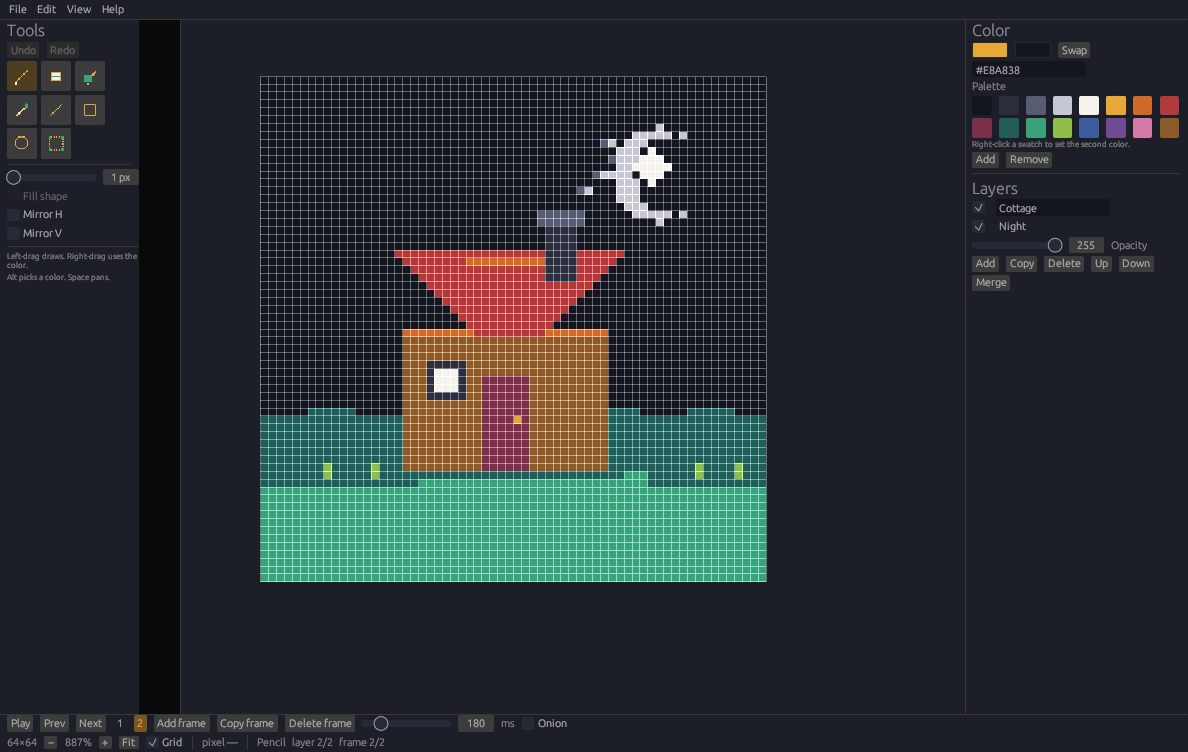
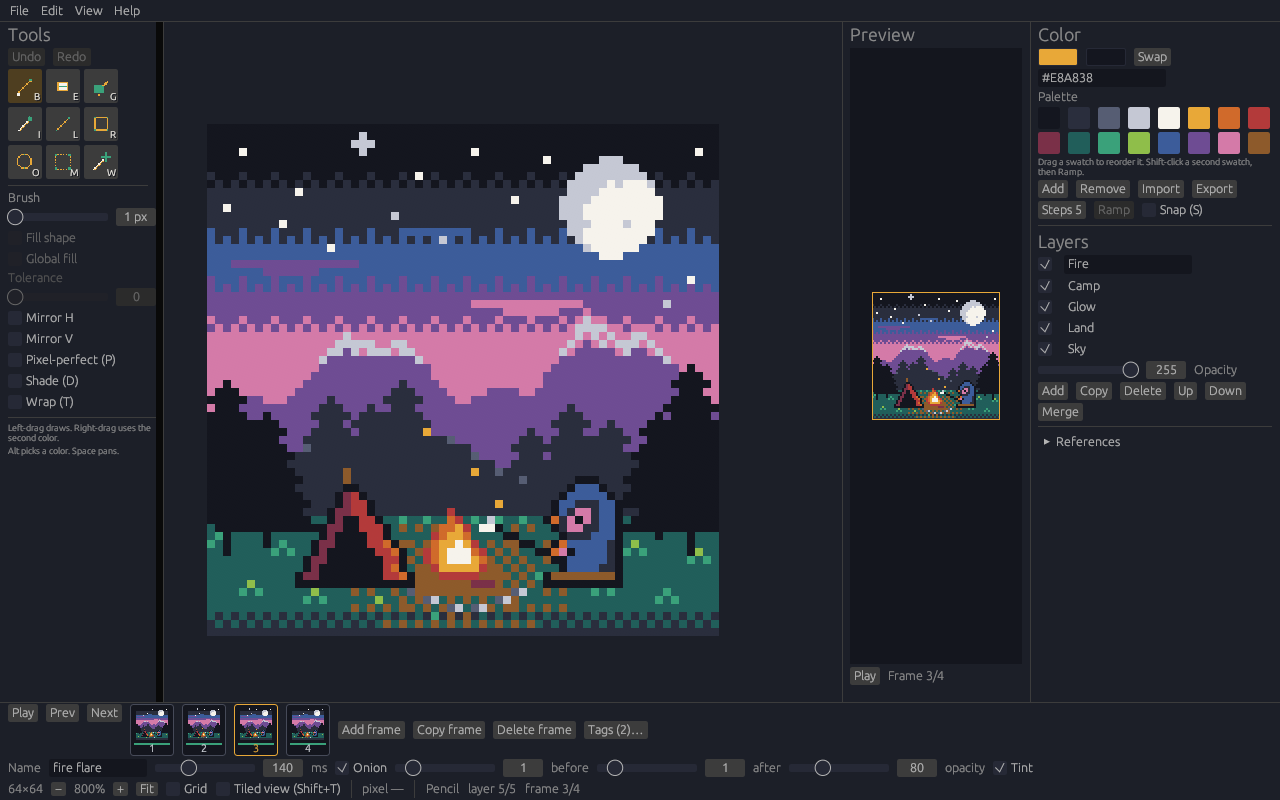
Rework the README for 0.9.0
The intro names OxyPack and Aseprite import. Features are grouped under
Drawing, Selections, Color and palette, Layers, Animation, Import and
export, and Files and recovery, and list frame names and tags. Update
behavior moves out of the install sections into its own Updates section
with automatic updates. The OxyPack section is split into what it
reads, an options table, and where to find it, with a screenshot of the
Pack sprites window. The download table lists the per-platform checksum
files.

New screenshots from the 0.9.0 build show an original 64x64 campfire
scene made for them: five layers, four named frames, two tags, onion
skin, and the packed atlas.

Claude-Session: https://claude.ai/code/session_01RTYDvnyorjSTgSCpyUgWmX

diff --git a/README.md b/README.md
@@ -1,14 +1,16 @@
 # OxyPixel
 
-OxyPixel is a pixel-art editor for making sprites and short animations on Windows and Linux. You draw on a pixel canvas, stack layers, and step through frames, then save an `.oxypix` document or export PNG, BMP, or GIF. The editing rules live in the `oxypixel-core` library, and the window is an [egui](https://github.com/emilk/egui) app. OxyPixel is an original program. It is not affiliated with Pixelorama, Orama Interactive, Godot, or Aseprite.
+OxyPixel is a pixel-art editor for making sprites and short animations on Windows and Linux. Draw on a pixel canvas, stack layers, step through named frames and animation tags, then save an `.oxypix` document or export PNG, BMP, GIF, or a spritesheet with JSON for game engines. It comes with [OxyPack](#oxypack), a sprite atlas packer that also reads Aseprite files, as a command and as a window inside the editor.
+
+The editing rules live in the `oxypixel-core` library, and the window is an [egui](https://github.com/emilk/egui) app. OxyPixel is an original program. It is not affiliated with Pixelorama, Orama Interactive, Godot, or Aseprite.
 
 **[Releases](https://github.com/crisprintsstuff/oxypixel/releases)** · **[Changelog](CHANGELOG.md)** · **[Latest](https://github.com/crisprintsstuff/oxypixel/releases/latest)** · **[Roadmap](docs/ROADMAP.md)**
 
-![The OxyPixel window editing a 64 by 64 drawing. Tools are on the left, the Ink palette and the Night and Cottage layers are on the right, and the frame strip is along the bottom.](docs/images/editor.png)
+![The OxyPixel window editing a 64 by 64 campfire scene at dusk: a hooded traveler roasts a marshmallow beside a tent under a full moon and pink mountains. Tools are on the left; the preview panel, the Ink palette, and five layers (Fire, Camp, Glow, Land, Sky) are on the right; four frame thumbnails, the frame Name field reading "fire low", and the Tags (2) button are along the bottom.](docs/images/editor.png)
 
-![The same drawing on frame 2, with onion skin showing the previous frame faintly. The cottage window is light and the smoke has moved.](docs/images/editor-frames.png)
+![The same drawing on frame 3, named "fire flare", with onion skin on. The flames are taller, sparks have risen, and a star twinkles.](docs/images/editor-frames.png)
 
-The pictures above are screenshots of the running editor. The drawing is a sample file opened for the capture. The images are in [docs/images/](docs/images/) and are covered by the repository MIT license.
+The pictures above are screenshots of OxyPixel 0.9.0. The drawing is a sample file opened for the capture. The images are in [docs/images/](docs/images/) and are covered by the repository MIT license.
 
 ## Contents
 
@@ -18,6 +20,7 @@ The pictures above are screenshots of the running editor. The drawing is a sampl
 - [Portable Windows build](#portable-windows-build)
 - [Linux](#linux)
 - [Features](#features)
+- [Updates](#updates)
 - [How it's built](#how-its-built)
 - [Keyboard shortcuts](#keyboard-shortcuts)
 - [OxyPack](#oxypack)
@@ -30,7 +33,7 @@ The pictures above are screenshots of the running editor. The drawing is a sampl
 
 ## Status
 
-OxyPixel is an early release. The Windows downloads are unsigned. Linux publishes a tar.gz and a `.deb`. A canvas side is at most 1024 pixels. What works today, and the open task list, is in [docs/ROADMAP.md](docs/ROADMAP.md).
+OxyPixel 0.9.0 is an early release. The Windows downloads are unsigned. Linux publishes a tar.gz and a `.deb`. A canvas side is at most 1024 pixels. What works today, and the open task list, is in [docs/ROADMAP.md](docs/ROADMAP.md).
 
 ## Download
 
@@ -43,7 +46,8 @@ The files for the current release are on the [latest release](https://github.com
 | `oxypixel-<version>-linux-x86_64.tar.gz` | Linux x86_64 archive |
 | `oxypixel-<version>-linux-x86_64.deb` | Linux Debian package |
 | `oxypack-<version>-windows-x86_64.exe` | [OxyPack](#oxypack) sprite packer for Windows. The Linux archive and `.deb` include `oxypack` |
-| [`SHA256SUMS.txt`](https://github.com/crisprintsstuff/oxypixel/releases/latest/download/SHA256SUMS.txt) | Checksums |
+| [`SHA256SUMS.txt`](https://github.com/crisprintsstuff/oxypixel/releases/latest/download/SHA256SUMS.txt) | Checksums for the editor downloads, used by Check for updates |
+| `SHA256SUMS-windows.txt`, `SHA256SUMS-linux.txt` | Checksums for each platform's files, including `oxypack-<version>-windows-x86_64.exe` |
 
 The Windows files are unsigned. SmartScreen can warn that the publisher is unknown. Check `SHA256SUMS.txt` before you install. Signing steps are in [docs/BUILD-WINDOWS.md](docs/BUILD-WINDOWS.md).
 
@@ -64,8 +68,6 @@ The window draws with Direct3D 12 through wgpu, which every supported Windows ha
 `oxypixel-<version>-windows-x86_64.exe` is the same 64-bit program without an installer. Put it in any folder and run it. SmartScreen can show the same unknown-publisher warning as the installer.
 
 The tagged Windows build embeds the application icon and a version resource when `rc.exe` is on `PATH`. The release workflow adds that compiler from the Windows SDK. A cross-build made without `rc.exe`, `llvm-rc`, or `windres` on `PATH` does not embed those resources, and File Explorer then shows a generic icon for the exe. The installer shortcut and the `.oxypix` association use `oxypixel.ico` either way. See [docs/BUILD-WINDOWS.md](docs/BUILD-WINDOWS.md).
-
-Help, then Check for updates, can download a newer release and restart into it after the checksum matches. Turn on Automatic updates (in the Help menu or that window) to check once a day at launch: a newer release is downloaded and verified in the background, and an "Update … ready" button appears in the menu bar. Nothing is installed until you click it.
 
 ## Linux
 
@@ -96,39 +98,76 @@ oxypixel export-png drawing.oxypix frame.png
 
 RPM, AppImage, and Flatpak are not built. Notes are in [docs/LINUX-PACKAGING.md](docs/LINUX-PACKAGING.md).
 
-Help, then Check for updates, downloads the tar.gz for an unpacked copy and the `.deb` when the running program is `/usr/bin/oxypixel`. A packaged copy stays in place. Install the downloaded `.deb` with the package manager.
-
 ## Features
 
 These match the current editor. Planned work is listed in [docs/ROADMAP.md](docs/ROADMAP.md) and is not included here.
 
-- Pixel canvas with nearest-neighbor zoom on whole-pixel steps, pan, and an optional grid
-- Pencil, eraser, fill, eyedropper, line, rectangle, ellipse, rectangular selection, and a magic wand. Fill and the wand have a tolerance for near colors and a global mode that take every match on the layer
-- Shift adds a marquee or wand area to the selection and Alt cuts it out, so a selection can be any shape
-- Move, nudge, flip, and rotate a selection (or the active cel when nothing is selected). A 90° turn swaps the sides and stays centered; pixels that do not fit are dropped. Copy publishes a straight-alpha image to the system clipboard and keeps an in-memory patch. Paste uses the system image, or that patch when the clipboard has no image
-- Canvas resize and crop
+### Drawing
+
+- Pencil, eraser, fill, eyedropper, line, rectangle, ellipse, rectangular selection, and a magic wand
+- Fill and the wand have a tolerance for near colors and a global mode that takes every match on the layer
+- Pixel-perfect pencil (P), off until you turn it on, drops the extra corner of a one-pixel diagonal step
+- Shade (D) turns the pencil into a shading brush: left steps each pixel to the next palette swatch, right to the one before
 - Horizontal and vertical mirror while drawing
-- Pixel-perfect pencil (P), off until you turn it on, drops the extra corner of a one-pixel diagonal step. The line tool is unchanged
-- Shade (D) turns the pencil into a shading brush: left steps each pixel to the next palette swatch, right to the one before. Colors not in the palette stay
-- Wrap (T) continues a stroke or fill that leaves an edge on the opposite edge. Tiled view (Shift+T) shows the canvas 3 by 3. Export still writes one copy
-- Primary and secondary colors, hex entry, and the Ink palette
-- Import and export the palette as GIMP `.gpl`, hex `.hex` (one `RRGGBB` per line), or JASC `.pal`. Import replaces the palette and can be undone. Drag swatches to reorder them, and fill a ramp of N steps between two swatches. Snap (S) makes pencil, fill, and shapes use the nearest palette color
-- Layers with visibility, opacity, rename, reorder, duplicate, and merge down
+- Wrap (T) continues a stroke or fill that leaves one edge on the opposite edge. Tiled view (Shift+T) shows the canvas 3 by 3 for checking a repeating tile
+- Nearest-neighbor zoom in whole-pixel steps, pan, and an optional grid
 - Undo and redo, including the selection
-- Frame names, typed beside the frame duration and used as the frame's name in the spritesheet JSON and by OxyPack
-- Animation tags: name a range of frames, choose forward, reverse, or ping-pong and a repeat count, and see each tag marked on the frame strip. Tags are saved in the document and exported in the spritesheet JSON and by OxyPack
-- Animation frames with thumbnails, playback, onion skin for earlier and later frames, a duration up to 10 seconds, GIF export, and a spritesheet in a row or a grid, with padding and a JSON description for game engines
+
+### Selections
+
+- Shift adds a marquee or wand area to the selection and Alt cuts it out, so a selection can be any shape
+- Move, nudge, flip, and rotate a selection, or the active cel when nothing is selected. A 90° turn swaps the sides and stays centered
+- Copy puts a straight-alpha image on the system clipboard. Paste uses the system image, or the last copy when the clipboard has no image
+- Canvas resize and crop
+
+### Color and palette
+
+- Primary and secondary colors, hex entry, and the 16-color Ink palette
+- Drag swatches to reorder them, and fill a ramp of N steps between two swatches
+- Snap (S) makes pencil, fill, and shapes use the nearest palette color
+- Import and export the palette as GIMP `.gpl`, hex `.hex`, or JASC `.pal`. Import replaces the palette and can be undone
+
+### Layers
+
+- Visibility, opacity, rename, reorder, duplicate, and merge down
+- Reference images (PNG or JPEG) on the canvas or in a floating panel, behind the art by default. Ctrl+drag moves one, and Fit to canvas scales it to the document. They are left out of export and saved beside the document, not inside it
+
+### Animation
+
+- Frames with thumbnails, playback, and a duration up to 10 seconds each
+- Frame names, typed in the Name field beside the duration. The spritesheet JSON and OxyPack use them
+- Animation tags: name a range of frames, choose forward, reverse, or ping-pong and a repeat count, and see each tag marked on the frame strip. Tags are saved in the document and exported in the spritesheet JSON
+- Onion skin for earlier and later frames, with a tint
 - A preview panel of the whole image, with its own playback, that pans the canvas when you click it
-- PNG and spritesheet export at 1×, 2×, or 4× nearest-neighbor
+
+### Import and export
+
 - `.oxypix` documents, plus PNG, BMP, and GIF import and export
-- Reference images (PNG or JPEG) on the canvas or in a floating panel, behind the art by default, so tools draw over them. Ctrl+drag moves one, and Fit to canvas scales it to the document. They are left out of export unless you copy one onto a layer. Dropping a JPEG loads a reference; a dropped PNG still imports. Save writes the paths and placement beside the document, not inside the `.oxypix` file. An image in the document's folder is stored by a relative path, so the folder can move
-- Recent files (a folder hint when names match, a missing-file mark, and Clear recent), drag-and-drop, a Windows file dialog, and a Linux portal dialog with a path field if the portal is unavailable
-- Autosave writes a recovery copy about once a minute, and after a run of edits, into the app data folder. It does not overwrite the open file. The next launch can restore or discard that copy, including a drawing that was never saved. Turn it off from the File menu
-- Pack sprites (File menu): pack frames from image, `.oxypix`, and `.aseprite` files into an atlas PNG and JSON, with a preview
-- Headless `export-png`, `export-bmp`, `export-gif`, `export-sheet`, `export-palette`, and `import-palette` commands
-- Keyboard shortcuts
+- PNG and spritesheet export at 1×, 2×, or 4× nearest-neighbor. A spritesheet can be a row or a grid, with padding and a JSON description for game engines
+- GIF animation export
+- Pack sprites (File menu): pack frames from image, `.oxypix`, and `.aseprite` files into an atlas PNG and JSON. See [OxyPack](#oxypack)
+- Headless `export-png`, `export-bmp`, `export-gif`, `export-sheet`, `export-palette`, and `import-palette` commands that never open a window
+
+### Files and recovery
+
+- Recent files, with a folder hint when names match, a missing-file mark, and Clear recent
+- Drag-and-drop, a Windows file dialog, and a Linux portal dialog with a path field if the portal is unavailable
+- Autosave writes a recovery copy about once a minute into the app data folder, without touching the open file. The next launch can restore or discard it, including a drawing that was never saved. Turn it off from the File menu
 
 A canvas side is at most 1024 pixels. One cel holds at most 1,048,576 pixels. The whole document holds at most 16,777,216 pixels across frames and layers. Details are in [docs/FORMAT.md](docs/FORMAT.md).
+
+## Updates
+
+Help, then Check for updates, looks at the public releases on GitHub. If a newer one has a file for your system, OxyPixel downloads it and checks it against `SHA256SUMS.txt` before it is used:
+
+- **Windows installer copy:** opens the new installer.
+- **Portable Windows copy:** replaces itself and restarts.
+- **Unpacked Linux copy:** replaces `oxypixel` from the new tar.gz and restarts.
+- **`.deb` copy** (`/usr/bin/oxypixel`): downloads the new `.deb` and leaves it for you to install with your package manager.
+
+You have to save or discard the open drawing first.
+
+**Automatic updates** is off by default. Turn it on in the Help menu or in the Check for updates window. OxyPixel then checks once a day at launch without opening a window, downloads and verifies a newer release in the background, and shows an "Update … ready" button in the menu bar. Nothing is installed until you click it.
 
 ## How it's built
 
@@ -160,13 +199,44 @@ The full list is [docs/SHORTCUTS.md](docs/SHORTCUTS.md).
 
 ## OxyPack
 
-`oxypack` is a companion command-line tool in the same workspace, and the editor has the same packer under File, then Pack sprites…. It packs sprites from many files into one atlas PNG and writes a JSON hash beside it, the layout Phaser, PixiJS, Godot importers, and Aseprite's own exporter read. Every frame of a GIF or `.oxypix` file becomes a sprite named `<file> 0`, `<file> 1`, and so on, with its duration; a one-frame file is named after the file.
+OxyPack packs sprites from many files into one atlas PNG and writes a JSON hash beside it, the layout Phaser, PixiJS, Godot importers, and Aseprite's own exporter read. It is a command-line tool, `oxypack`, and the same packer is in the editor under File, then Pack sprites….
 
 ```bash
 oxypack sprites/ hero.oxypix --trim --dedupe -o atlas.png
 ```
 
-Inputs are `.png`, `.bmp`, `.gif`, `.oxypix`, and Aseprite `.aseprite` / `.ase` files, or folders of them. An Aseprite file is drawn the way Aseprite flattens it for export: visible layers with their opacity, hidden and reference layers left out. Layer blend modes (Multiply, Screen, Overlay, and the rest of Aseprite's list) and group opacity and blending are applied. Tilemap layers are drawn from their tilesets, flipped tiles included. A tileset kept in another file is skipped, and `oxypack` says so on stderr. Tags from Aseprite files and from tagged `.oxypix` documents are written to `meta.frameTags` with their direction and repeat count, numbered by the sprites' order in the JSON, so a tag still points at the right frames when several files share one atlas. `--padding N` (default 1) leaves clear pixels between sprites, `--max-width N` (default 2048) caps the width, `--trim` crops each sprite to its ink and records the offset, `--dedupe` stores repeated frames once, `--pot` rounds the size up to powers of two, `--packer maxrects` fills the gaps rows leave for a shorter atlas, and `--no-json` writes only the PNG. The command never opens a window, so it fits build scripts and CI. The Pack sprites window takes files and folders (from the system dialog or a typed path), shows the packed atlas, and saves the same PNG and JSON the command would. On Windows the installer puts `oxypack.exe` in `%LOCALAPPDATA%\OxyPixel`, and there is also a standalone `oxypack-<version>-windows-x86_64.exe` download; the Linux archive has `./oxypack` beside `./oxypixel`, and the `.deb` installs `/usr/bin/oxypack`. From source: `cargo build --release -p oxypack`.
+![The Pack sprites window over the editor. campfire.oxypix is the input, and the result reads "4 sprites from 1 files, 259×64, 2 tags", with the four packed frames shown in a row.](docs/images/pack.png)
+
+### What it reads
+
+- `.png`, `.bmp`, `.gif`, `.oxypix`, and Aseprite `.aseprite` / `.ase` files, or folders of them (not searched recursively)
+- Every frame of an animation becomes a sprite with its duration. It is named `<file> <frame name>` when the frame has a name, and `<file> 0`, `<file> 1`, and so on otherwise. A one-frame file is named after the file
+- Aseprite files are drawn the way Aseprite flattens them for export:
+  - visible layers with their opacity; hidden and reference layers are left out
+  - layer blend modes (Multiply, Screen, Overlay, and the rest of Aseprite's list), and group opacity and blending
+  - tilemap layers drawn from their tilesets, flipped tiles included. A tileset kept in another file is skipped, with a note on stderr
+- Tags from Aseprite files and from tagged `.oxypix` documents are written to `meta.frameTags` with their direction and repeat count. They are numbered by the sprites' order in the JSON, so a tag still points at the right frames when several files share one atlas
+
+### Options
+
+| Option | Effect |
+| --- | --- |
+| `-o`, `--output <path>` | Atlas PNG to write (required). The JSON goes beside it |
+| `--padding N` | Clear pixels between sprites (default 1) |
+| `--max-width N` | Widest the atlas may be (default 2048) |
+| `--trim` | Crop each sprite to its ink and record the offset |
+| `--dedupe` | Store repeated frames once |
+| `--pot` | Round the atlas size up to powers of two |
+| `--packer maxrects` | Fill the gaps rows leave, for a shorter atlas (default `shelf`) |
+| `--no-json` | Write only the PNG |
+
+The command never opens a window, so it fits build scripts and CI. The Pack sprites window takes files and folders (from the system dialog or a typed path), shows the packed atlas, and saves the same PNG and JSON the command would.
+
+### Where to find it
+
+- **Windows:** the installer puts `oxypack.exe` in `%LOCALAPPDATA%\OxyPixel`, and there is also a standalone `oxypack-<version>-windows-x86_64.exe` download.
+- **Linux:** the archive has `./oxypack` beside `./oxypixel`, and the `.deb` installs `/usr/bin/oxypack`.
+- **From source:** `cargo build --release -p oxypack`.
 
 Outside tests: a tester ran the `oxypack` command from the 0.7.5 Linux build. With 0.8.0, `.aseprite` files saved by Aseprite 1.13.18.6 packed to the same frames as Aseprite's own export. Reports on other files and versions are welcome in an issue.
 

diff --git a/docs/images/README.md b/docs/images/README.md
@@ -1,5 +1,5 @@
 # Screenshots
 
-`editor.png` and `editor-frames.png` are screenshots of the OxyPixel window, captured from a build of this repository on 2026-10-21. The 64×64 drawing in the window was made for the capture. It is original project art: a two-layer, two-frame scene, not a mockup and not artwork from another editor.
+`editor.png`, `editor-frames.png`, and `pack.png` are screenshots of the OxyPixel 0.9.0 window, captured from a build of this repository on 2026-10-26. The drawing in them, `campfire.oxypix`, was made for the capture: a 64×64 scene with five layers, four named frames, and two animation tags. It is original project art, not a mockup and not artwork from another editor.
 
 These files are part of this repository and are covered by the MIT license in the repository root.
